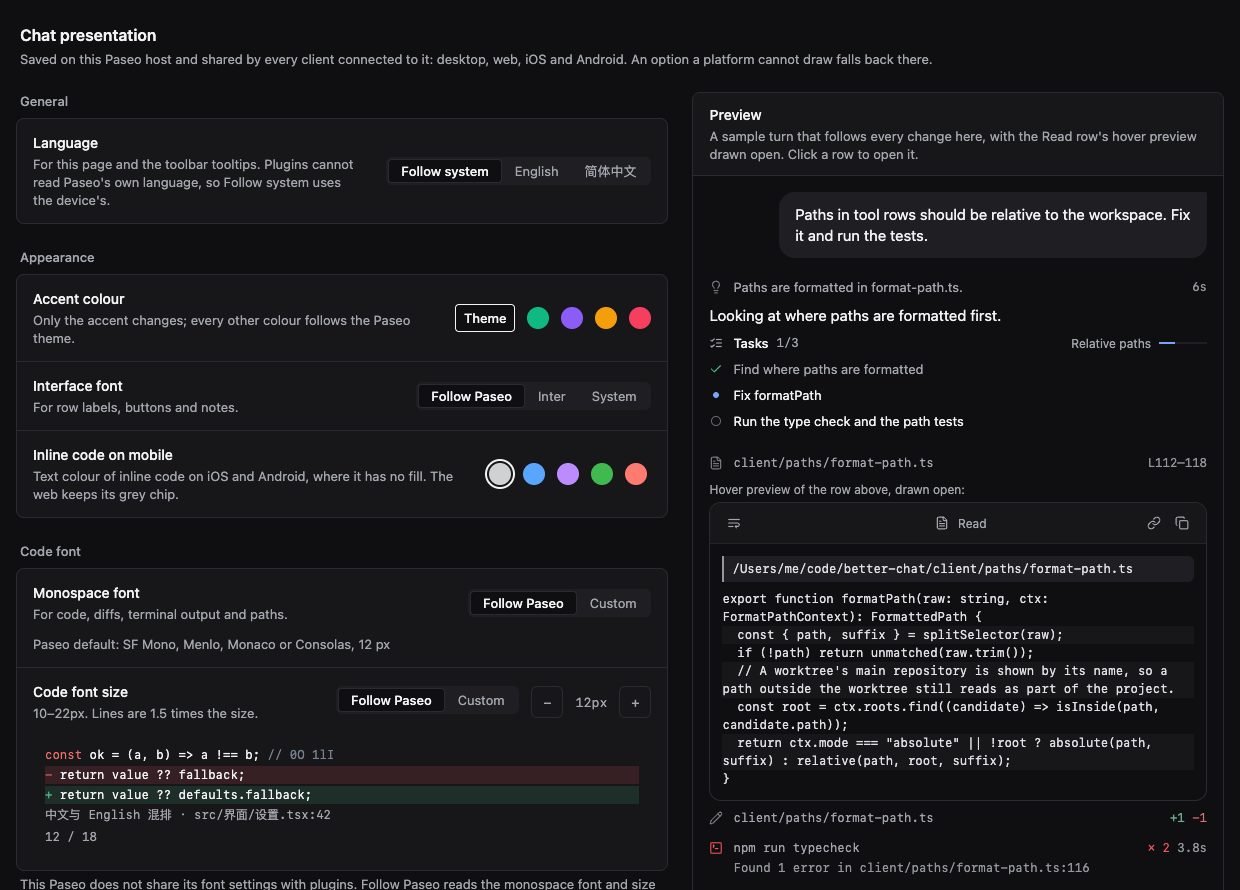
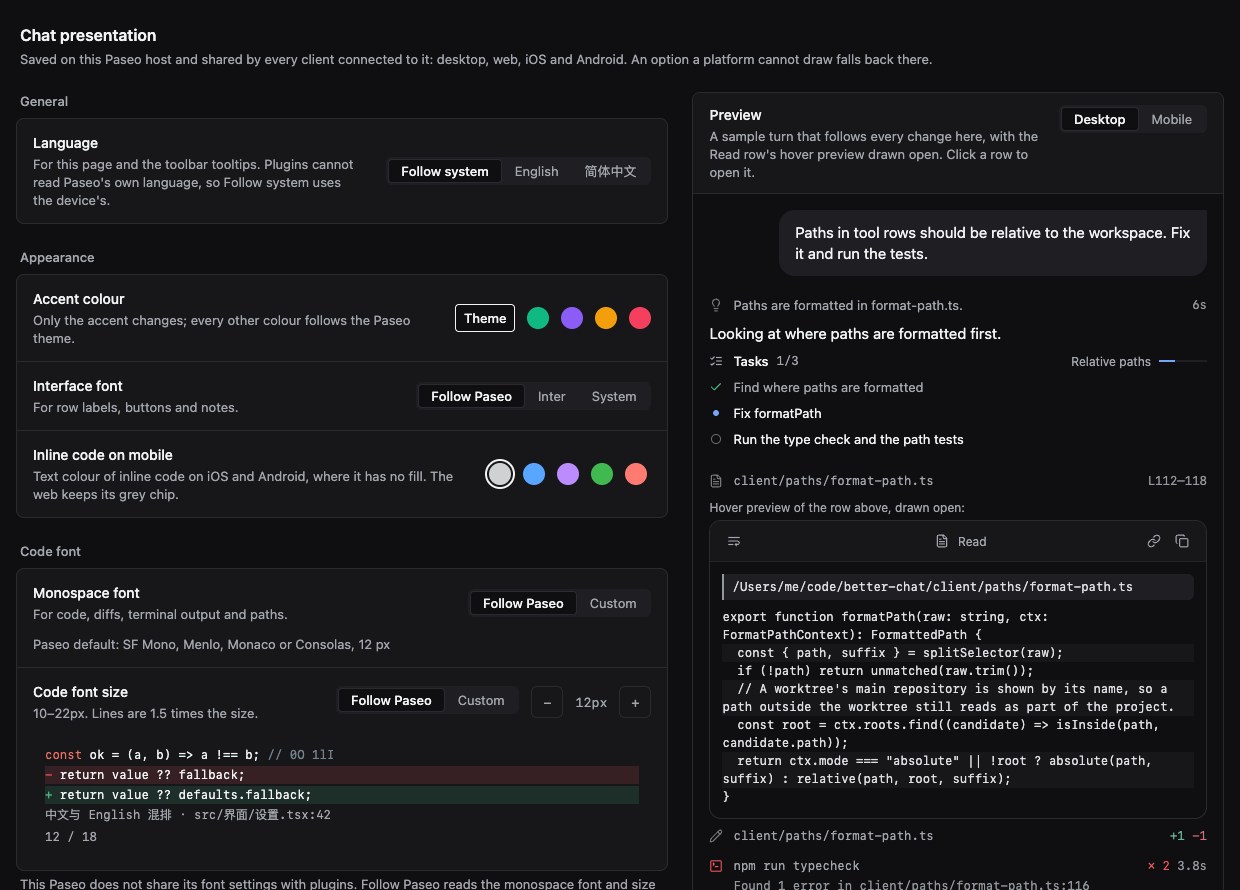
docs(readme): show desktop/mobile preview switching in settings screenshots and docs

diff --git a/README.md b/README.md
@@ -270,8 +270,9 @@ actions remain the host's.
 
 **Settings → Plugins → Better Paseo.** A sample turn drawn with the timeline's own components follows
 every change: beside the options on a wide desktop window, above them elsewhere. The Read row's
-hover preview is drawn open in it. Options whose parent is off are dimmed, and **Reset** asks for a
-second press.
+hover preview is drawn open in it. On web and desktop a **Desktop / Mobile** switch draws the same
+turn as iOS does: a phone's width, the system monospace, and inline code in the colour you picked.
+Options whose parent is off are dimmed, and **Reset** asks for a second press.
 
 ![Settings page with its live preview](docs/images/settings.png)
 
